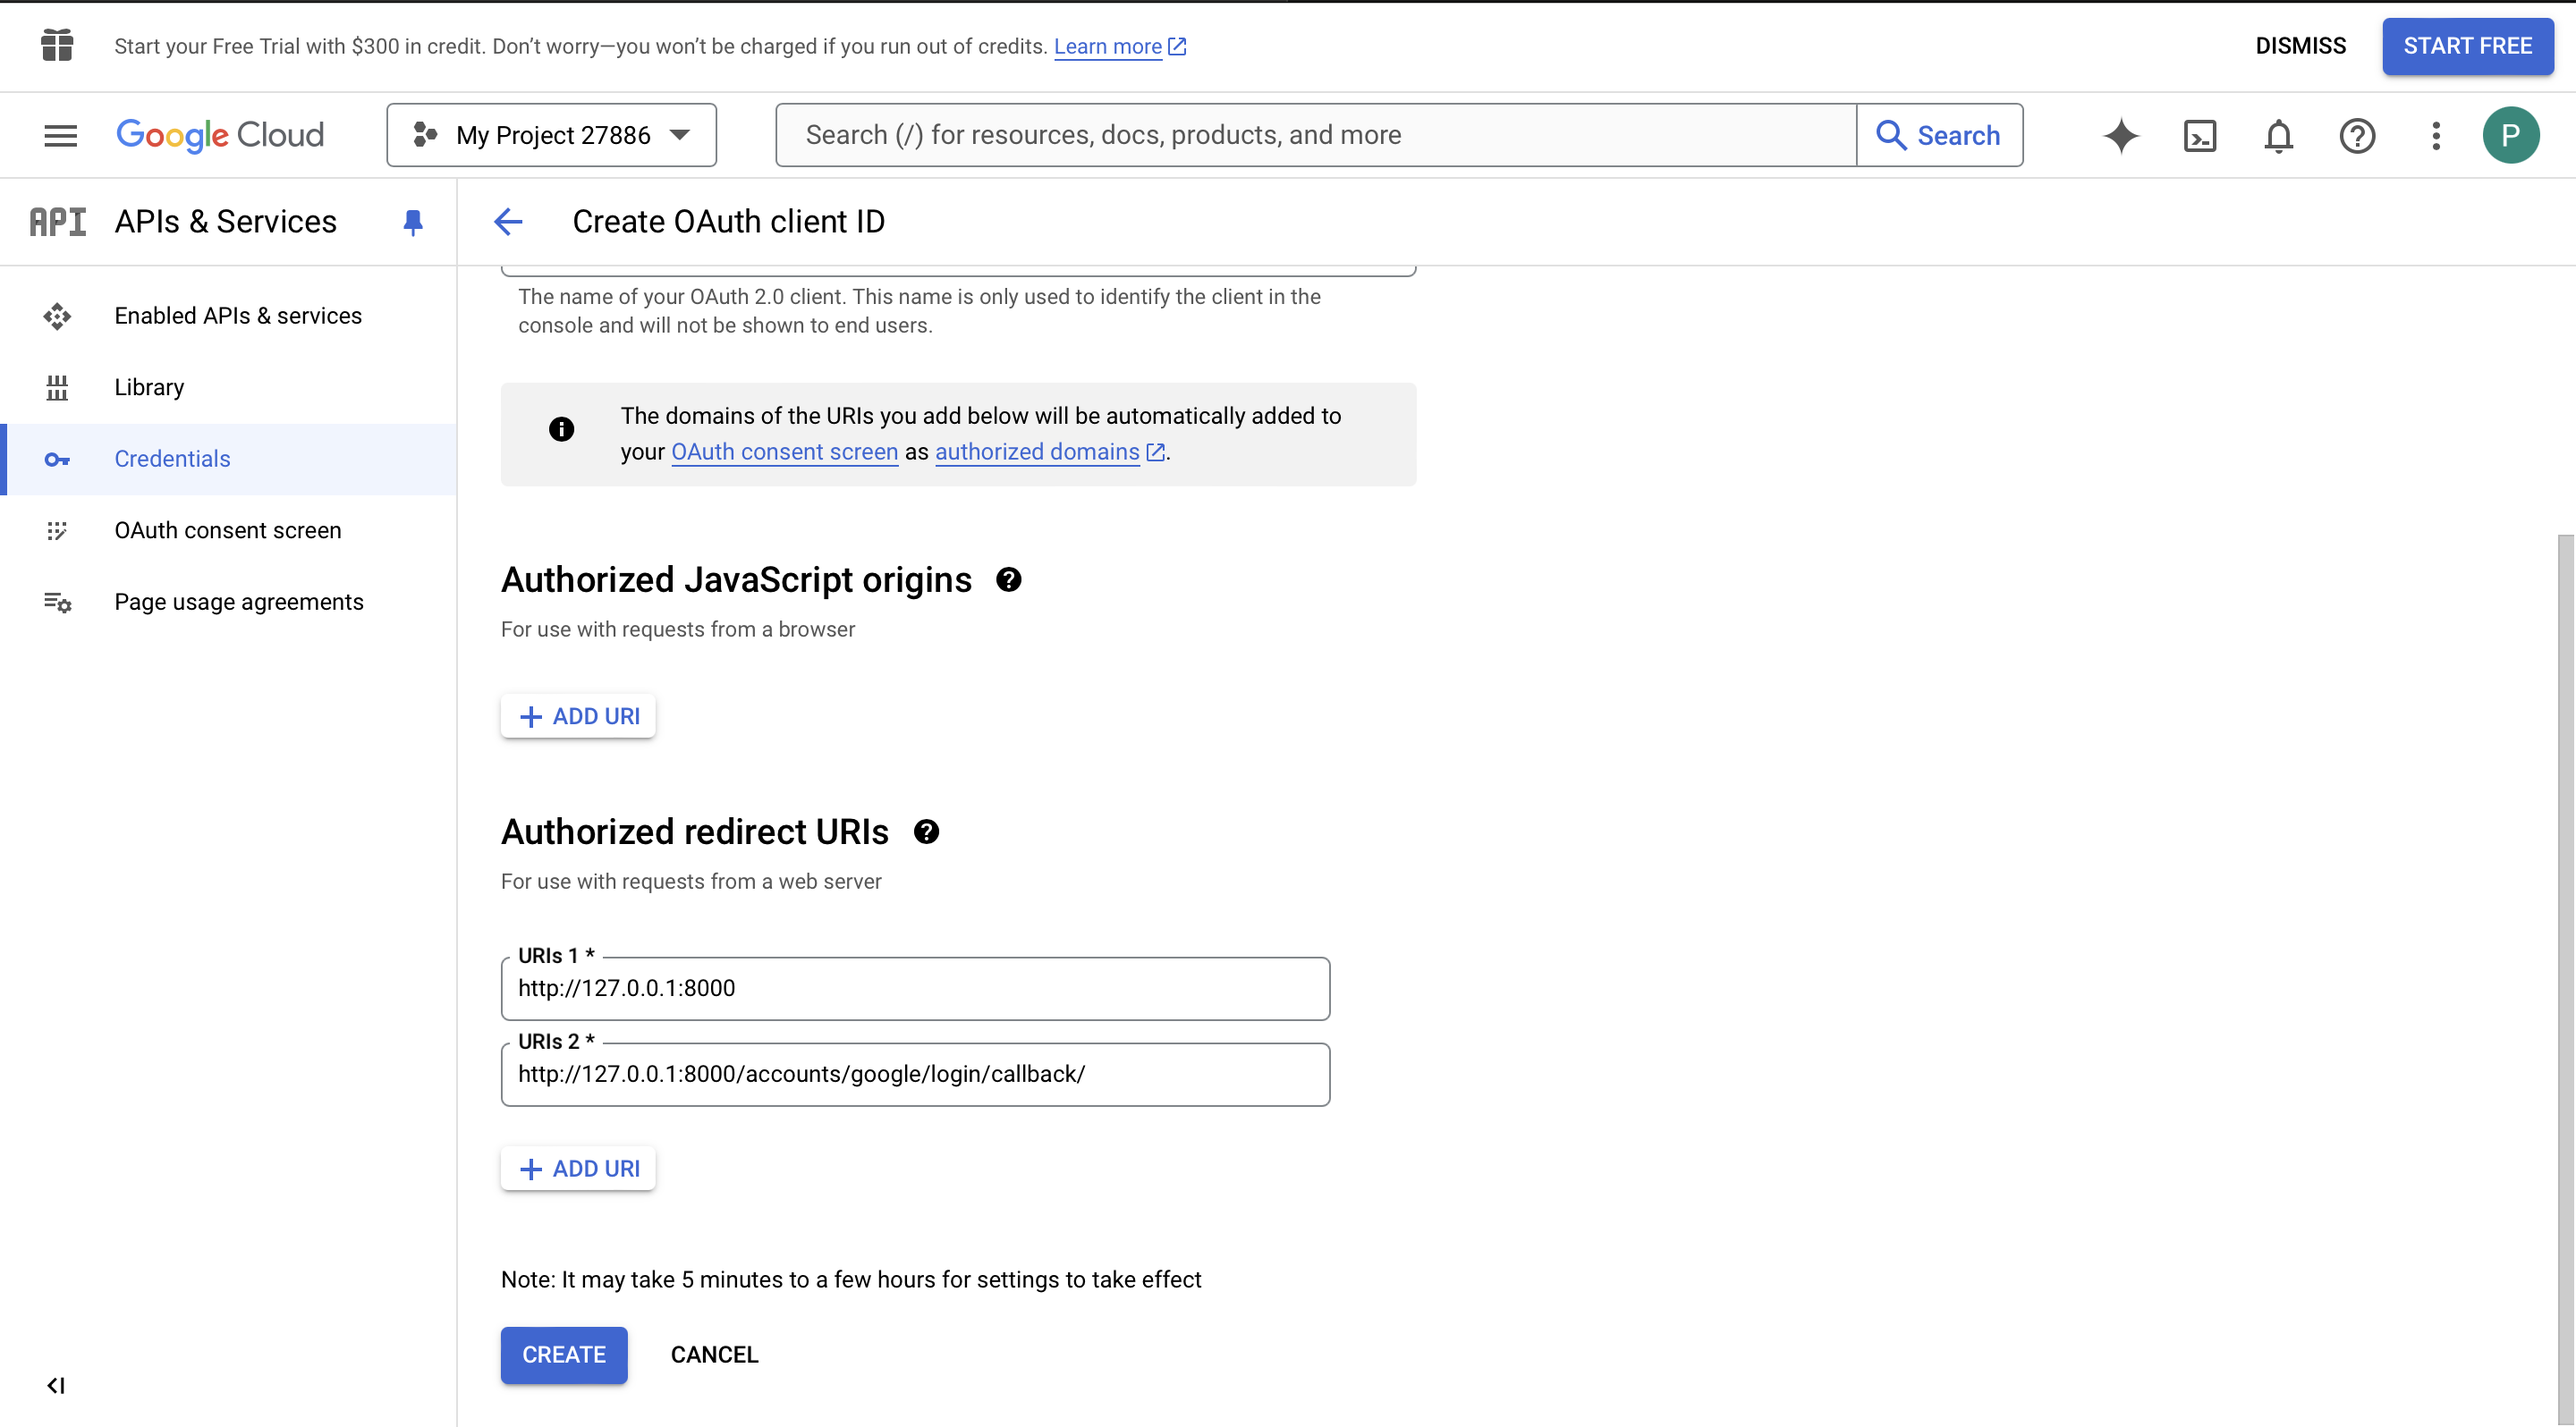
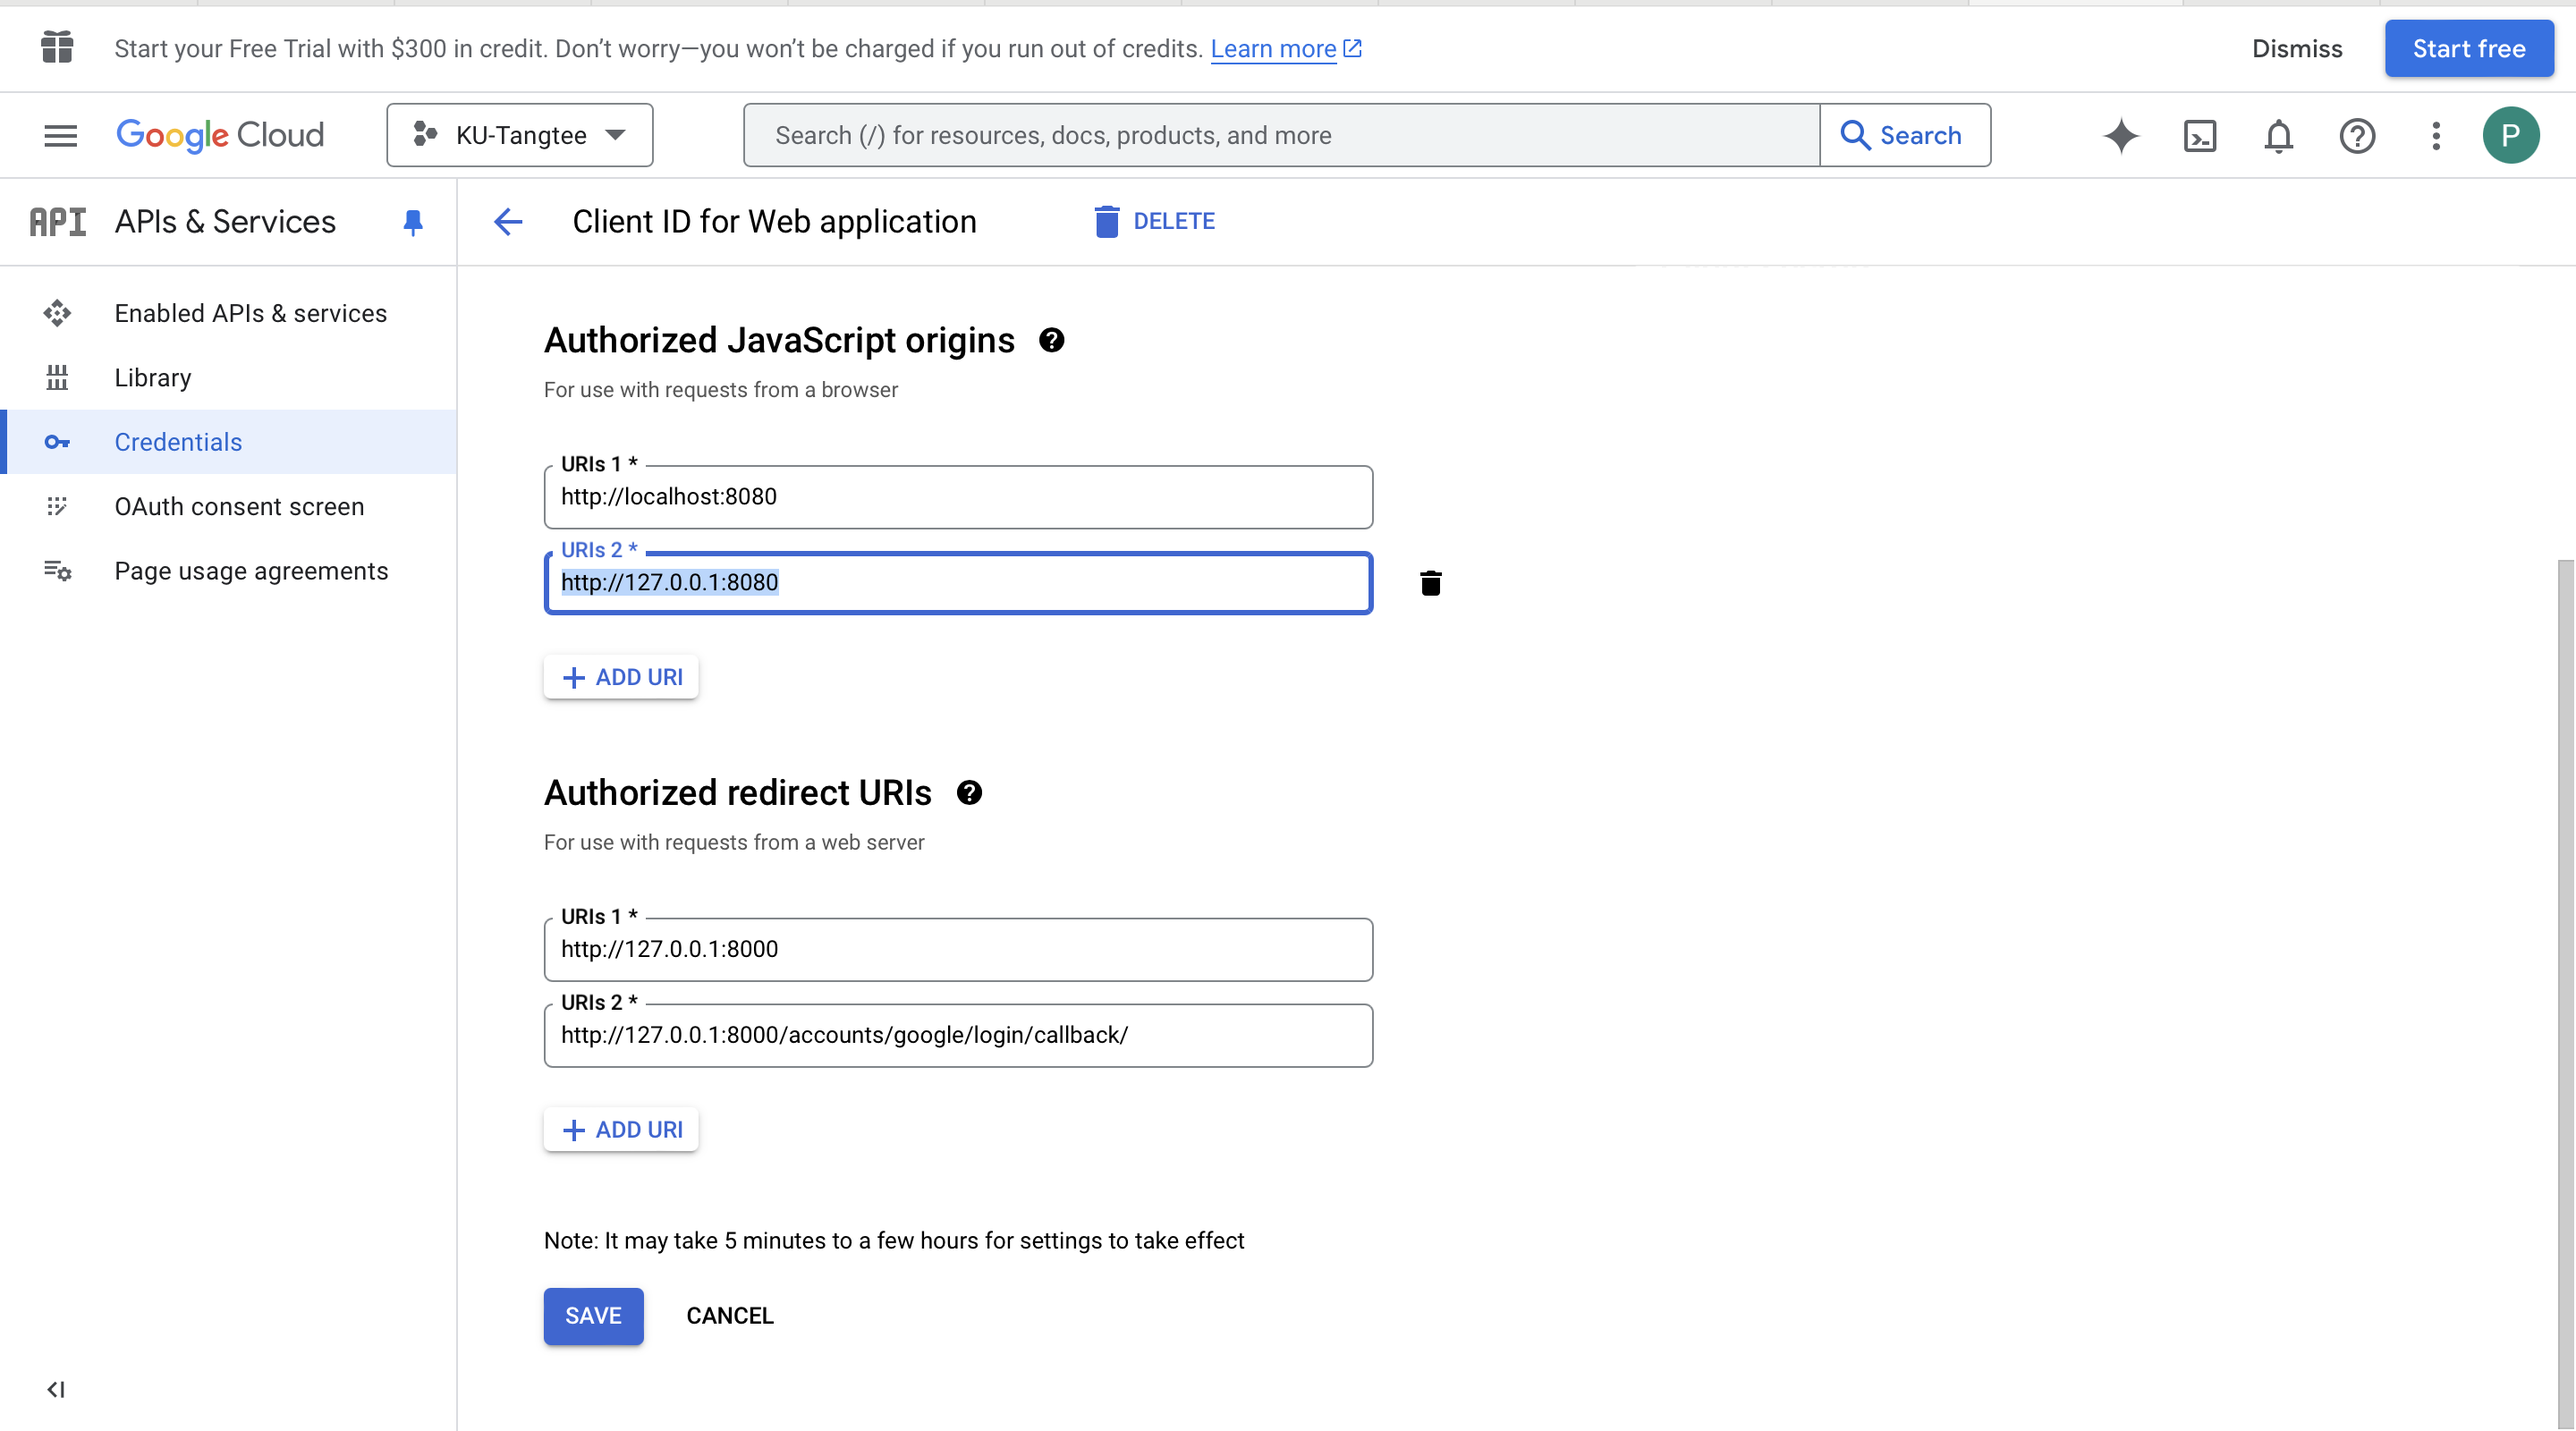
Update google credentials guide

diff --git a/google_credentials_guide.md b/google_credentials_guide.md
@@ -38,16 +38,24 @@
 13. Select **Web Appplication** as a application type
     ![App type](./google_oauth_guide_pic/Select%20app%20typw.png)
 
-14. Scroll down and add 2 URI.
+14. Add authorized JavaScript origin.
 
-    First: `http://127.0.0.1:8000`
+    First: http://localhost:8080
 
-    Second: `http://127.0.0.1:8000/accounts/google/login/callback/`
+    (optional): http://127.0.0.1:8080
+
+    (Optional: if you want to login from backend add this too, but it's mostly unnecessary)
+
+    Scroll down and add 2 URI.
+
+    First: http://127.0.0.1:8000
+
+    Second: http://127.0.0.1:8000/accounts/google/login/callback/
 
     (optional) add 2 more URI by replace `127.0.0.1` with `localhost`
 
     ![add uri](./google_oauth_guide_pic/Add_uri.png)
-
+    
 15. oauth credentials already created. Save client ID and Client secret somewhere.
 
     ![Complete](./google_oauth_guide_pic/oauth%20created.png)
